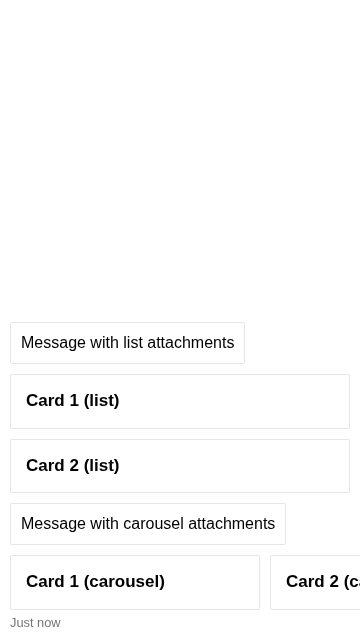
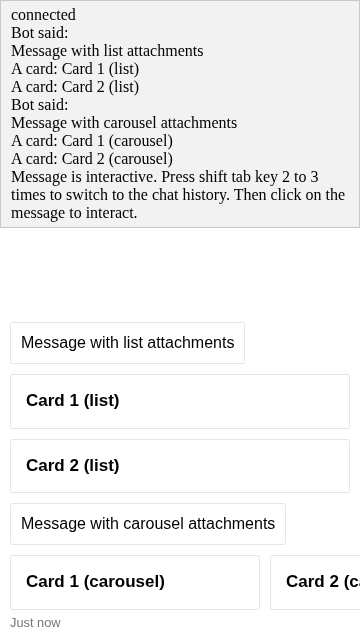
Show the live region copy in role description snapshots

Changed region(s): [[0.0, 0.0, 0.9472, 0.3438], [0.9778, 0.0, 1.0, 0.3438]]

diff --git a/__tests__/html2/accessibility/aria-roledescription.localized.html b/__tests__/html2/accessibility/aria-roledescription.localized.html
@@ -2,6 +2,8 @@
 <html lang="en-US">
   <head>
     <link href="/assets/index.css" rel="stylesheet" type="text/css" />
+    <!-- Shows the live region, so the snapshots show the copy sent to screen readers. -->
+    <link href="/assets/accessibility.liveRegionAttachment.css" rel="stylesheet" type="text/css" />
   </head>
   <body>
     <main id="webchat"></main>
@@ -34,7 +36,13 @@
         const root = createRoot(document.getElementById('webchat'));
         const render = props =>
           root.render(
-            createElement(ReactWebChat, { directLine, store, styleOptions: { hideSendBox: true }, ...props })
+            createElement(ReactWebChat, {
+              directLine,
+              store,
+              // Keeps the live region copy of new messages, so it can be seen in the snapshots.
+              styleOptions: { hideSendBox: true, internalLiveRegionFadeAfter: 60000 },
+              ...props
+            })
           );
 
         // Role descriptions of the message and attachments, per activity.
@@ -68,8 +76,10 @@
         }
 
         await pageConditions.numActivitiesShown(2);
+        await pageConditions.liveRegionStabilized();
 
         // THEN: A stacked message, then a carousel message, each with its text and 2 cards.
+        // THEN: The live region (top) shows what screen readers announce for each: "Bot said:", the text, and "A card:" per card, without role descriptions.
         await host.snapshot('local');
 
         // THEN: Message and attachments are described in English.
@@ -94,6 +104,20 @@
             ['Nachricht', 'Anhang', 'Anhang']
           ])
         );
+
+        // WHEN: The bot sends another message.
+        await directLine.emulateIncomingActivity({
+          attachments: [{ content: { title: 'Card 3' }, contentType: 'application/vnd.microsoft.card.hero' }],
+          from: { role: 'bot' },
+          text: 'Message after switching to German',
+          type: 'message'
+        });
+
+        await pageConditions.numActivitiesShown(3);
+        await pageConditions.liveRegionStabilized();
+
+        // THEN: The live region shows the new message announced in German ("Bot sagte:", "Eine Karte:", from de-DE); the earlier copies are re-rendered in German too.
+        await host.snapshot('local');
       });
     </script>
   </body>
